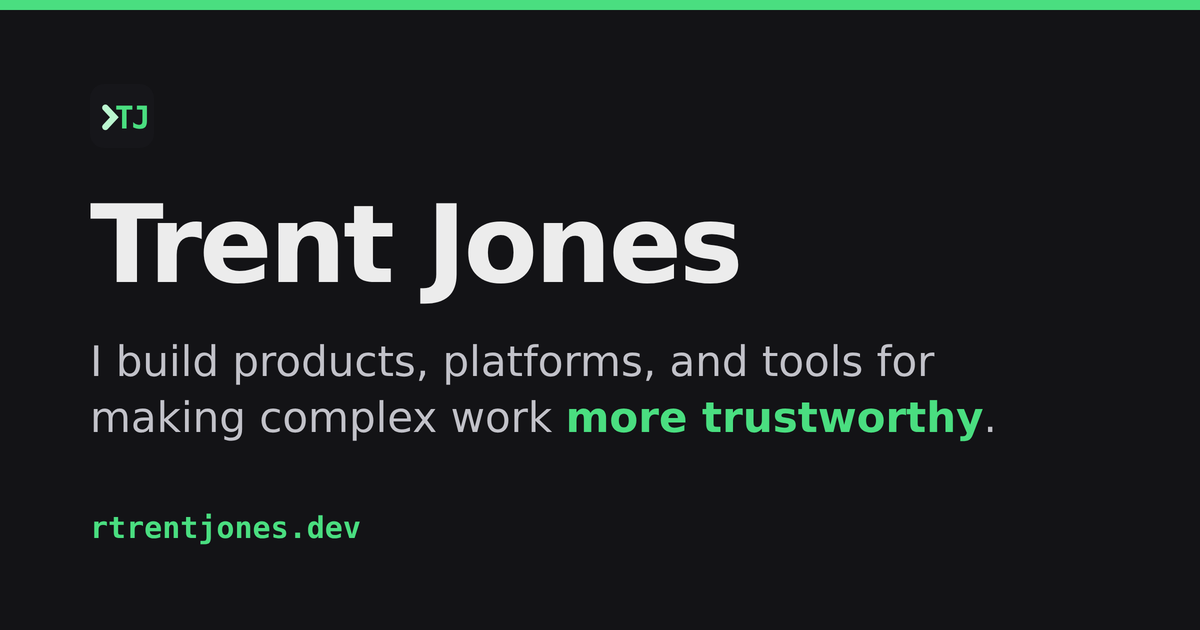
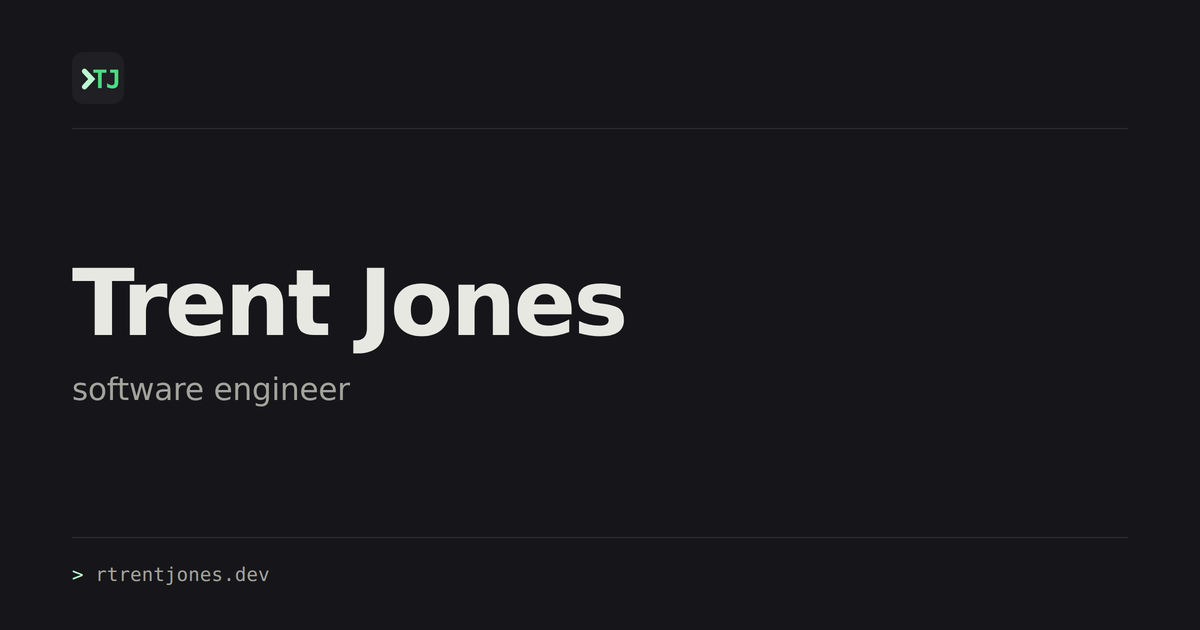
content(blog): drop location site-wide + strip the OG card to identity
The site was rewritten around project origins rather than a positioning
thesis, but the social card still led with the retired one ("making complex
work more trustworthy"). It also carried a location, which the rest of the
site did too.

- No location anywhere. "Los Angeles" is gone from SITE_DESC, the homepage
  lede, /about (prose + description), and the starting-here post. USC stays:
  an alma mater reads as history, not as where I am now.
- og.png: name, role, domain. No tagline. The old card's thesis line and the
  bolded-green phrase are gone; the >TJ mark and the terminal language stay.
- scripts/render-og.mjs: the card is now generated from a committed template
  instead of offline with nothing checked in. That gap is why it kept a
  tagline the site had already dropped — nothing tied the two together.
  Palette comes from the dark-theme tokens, the >TJ paths from favicon.svg;
  Playwright renders at 2x and sharp downscales to the 1200x630 the og:image
  meta declares. No new dependencies (same pnpm-store resolution as
  scripts/capture-shots.mjs).
- verify.config.ts: assert the card. Every page references it by ABSOLUTE
  url, so a build that stopped emitting it would break every share preview
  with nothing here noticing. Both halves are checked — the file serves as a
  PNG, and the homepage meta still points at it. Negative-tested: removing
  og.png from the build fails the gate (exit 1, "status 404 != 200").
[…]

diff --git a/apps/blog/verify.config.ts b/apps/blog/verify.config.ts
@@ -3,7 +3,11 @@
 export default {
   mode: 'api',
   checks: [
-    { path: '/', status: 200 },
+    // The social card is referenced by ABSOLUTE url in every page's meta, so if the asset ever
+    // stopped being emitted, every share preview would break silently — nothing else here would
+    // notice. Assert both halves: the file serves as a PNG, and the meta still points at it.
+    { path: '/', status: 200, contains: '/og.png"' },
+    { path: '/og.png', status: 200, header: { name: 'content-type', value: 'image/png' } },
     { path: '/blog/', status: 200 },
     { path: '/projects/', status: 200 },
     { path: '/about/', status: 200 },
